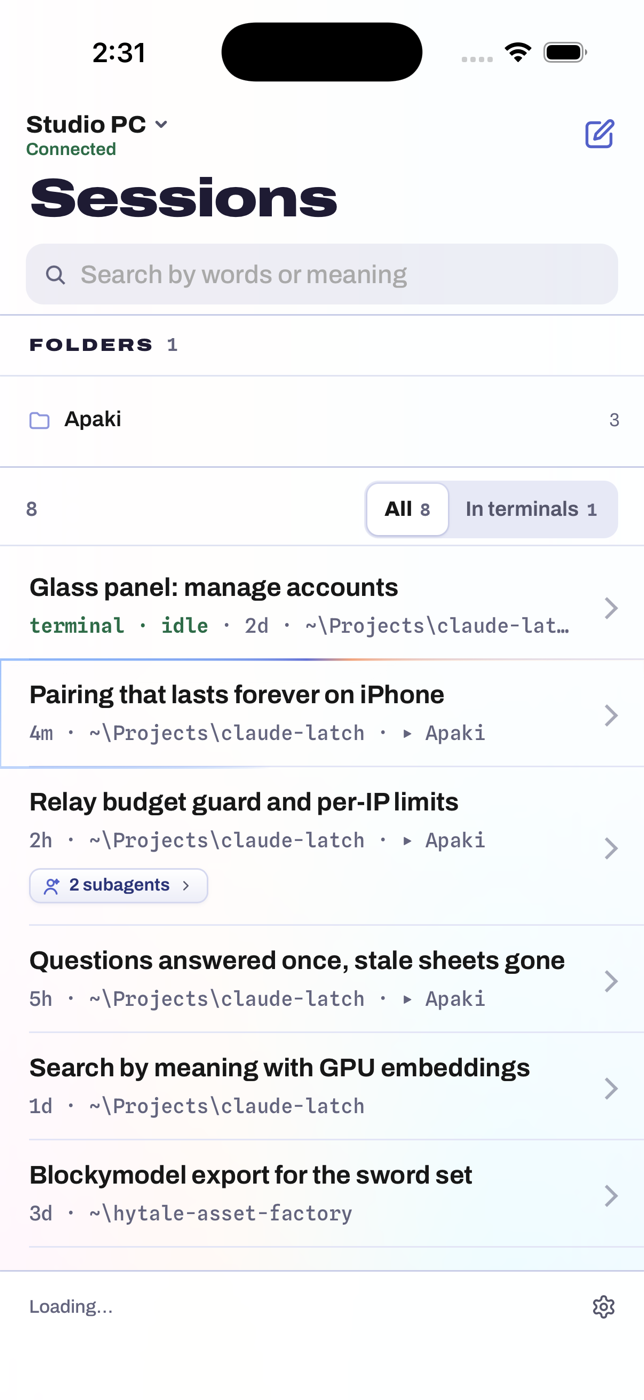
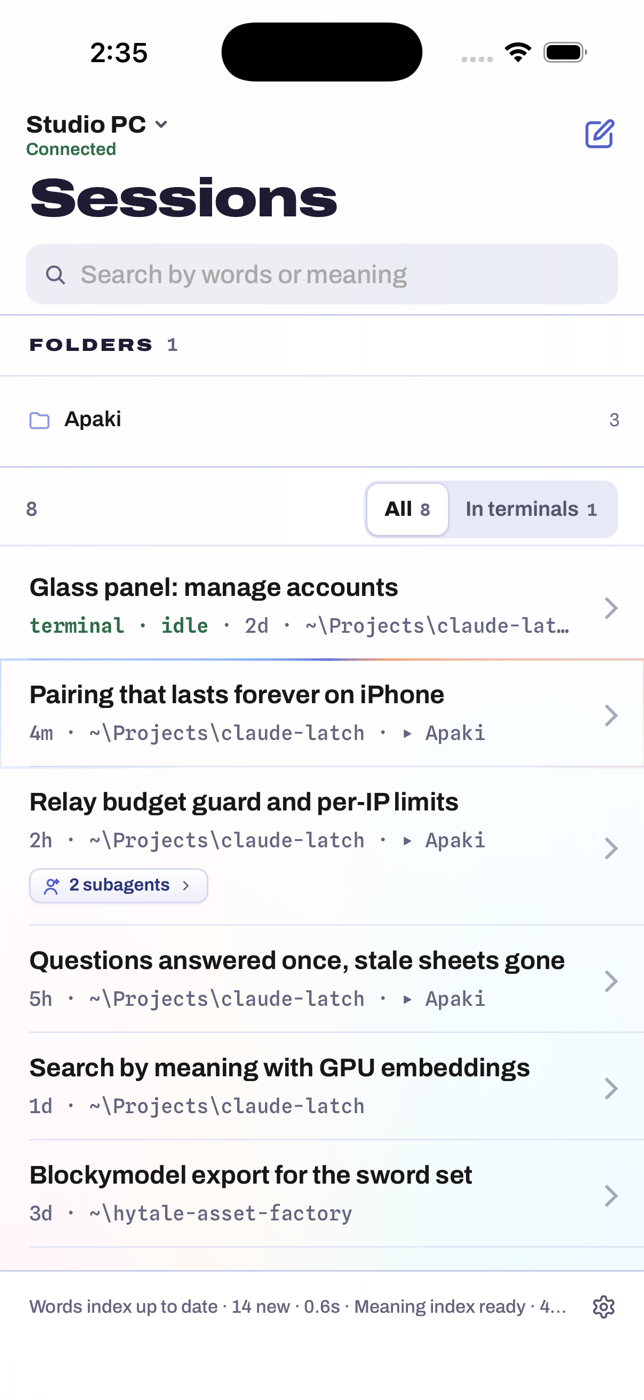
Apaki mobile: Debug builds take a pairing link at launch (-apakiLink)
simctl openurl with the apaki:// scheme stops at an 'Open in Apaki?'
prompt that cannot be tapped from the command line, so the real-relay
test hands the link over as a launch argument instead. Read only under
#if DEBUG, like -apakiDemo; a Release app ignores it.

diff --git a/apaki/mobile/ios/App/App/ApakiAppPlugin.swift b/apaki/mobile/ios/App/App/ApakiAppPlugin.swift
@@ -1,11 +1,13 @@
 // ApakiAppPlugin.swift: build facts and the WebView's ground colour for the
 // Apaki app's page (apaki/mobile, 2026-10-10). JS: ApakiApp (src/cap.js).
 //
-//   info() -> { debug, demo?, version, build, secureEnclave }
+//   info() -> { debug, demo?, link?, version, build, secureEnclave }
 //     debug is true only in a Debug build (#if DEBUG). demo is the
 //     -apakiDemo launch argument (pair, list, chat), read in Debug builds
 //     only, so a Release app can never be started as the pretend PC
-//     (src/entry.js refuses a demo page without debug).
+//     (src/entry.js refuses a demo page without debug). link is the
+//     -apakiLink launch argument (a pairing link, for Simulator tests), also
+//     Debug only.
 //   setBackground({ color: "#rrggbb" })
 //     the WebView and its window behind the page follow Apaki's theme, so
 //     no light edge shows under a dark page while the keyboard moves.
@@ -35,6 +37,11 @@ public class ApakiAppPlugin: CAPPlugin, CAPBridgedPlugin {
         let args = ProcessInfo.processInfo.arguments
         if let i = args.firstIndex(of: "-apakiDemo"), i + 1 < args.count, ["pair", "list", "chat"].contains(args[i + 1]) {
             out["demo"] = args[i + 1]
+        }
+        // A pairing link handed over at launch (xcrun simctl launch ... -apakiLink apaki://pair#p=...):
+        // opening a custom-scheme link from the command line stops at a system prompt nobody can tap.
+        if let i = args.firstIndex(of: "-apakiLink"), i + 1 < args.count {
+            out["link"] = args[i + 1]
         }
         #else
         out["debug"] = false

diff --git a/apaki/mobile/src/native-shell.js b/apaki/mobile/src/native-shell.js
@@ -117,6 +117,8 @@ async function launchPayload() {
   });
   let url = null;
   try { url = (await App.getLaunchUrl())?.url || null; } catch { url = null; }
+  // Debug builds only (ApakiApp.info reads -apakiLink under #if DEBUG): a link handed over at launch, for Simulator tests.
+  if (!url) { try { url = (await AppInfo.info())?.link || null; } catch { url = null; } }
   const p = url ? pairingPayloadFrom(url) : null;
   if (!p || sessionStorage.getItem(USED_LINK) === p) return null;
   sessionStorage.setItem(USED_LINK, p);
